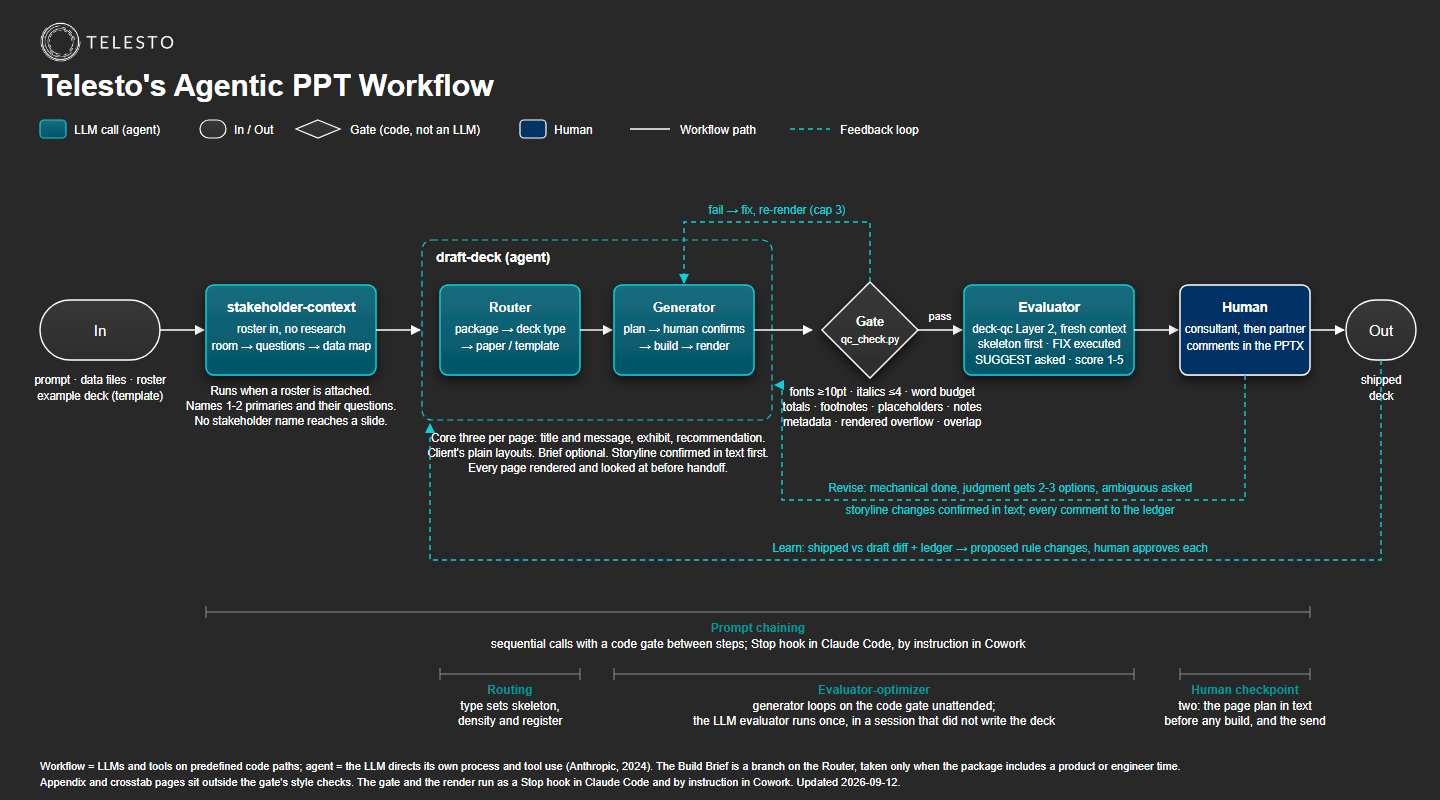
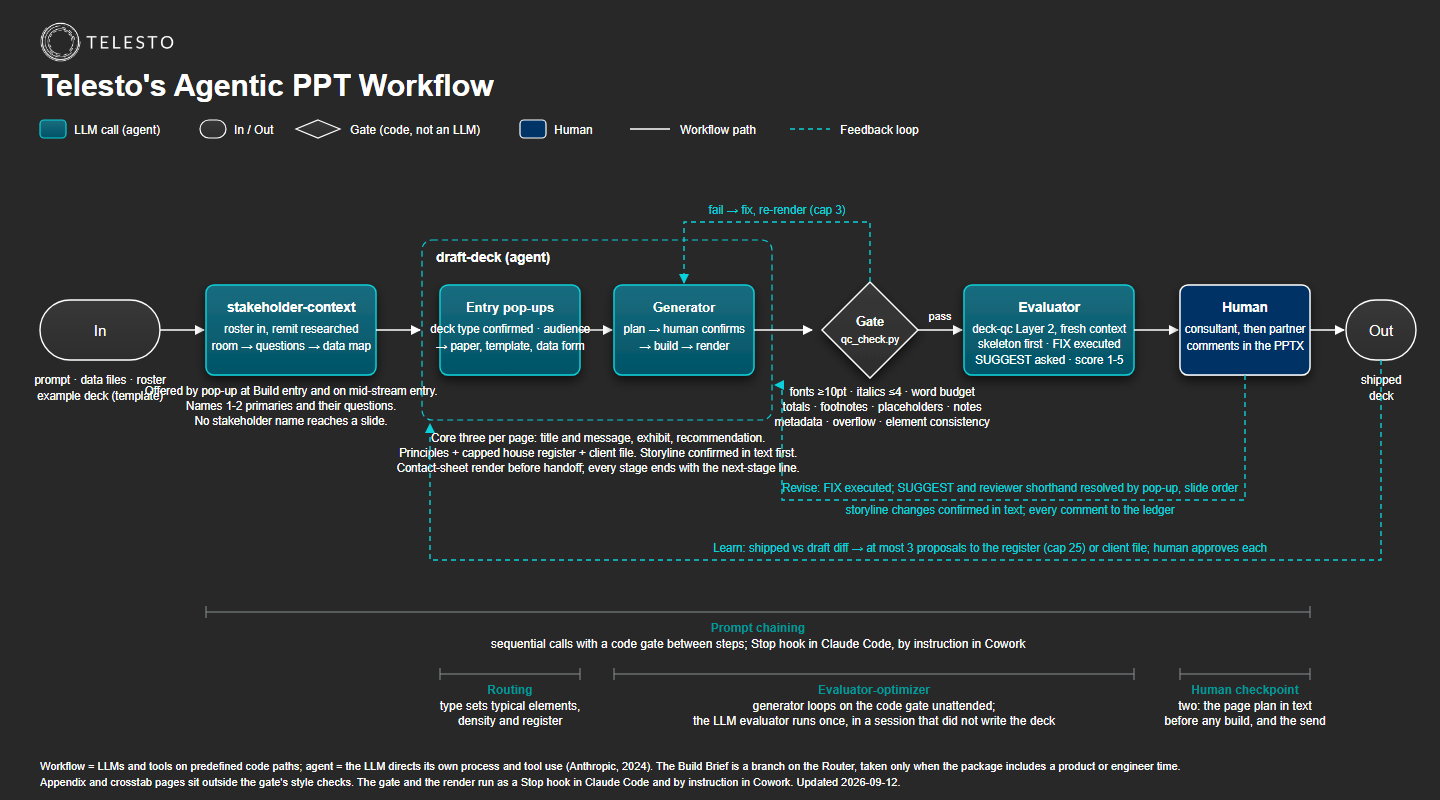
Chain chart updated: entry pop-ups, stakeholder-context offer, register and client file, contact-sheet render, next-stage lines

diff --git a/docs/telesto_deck_chain.html b/docs/telesto_deck_chain.html
@@ -54,9 +54,9 @@
   <!-- Agent 1: stakeholder-context -->
   <rect x="206" y="285" width="170" height="90" rx="8" fill="url(#agent)" stroke="#0BD0D9" stroke-width="1.4" filter="url(#sh)"/>
   <text x="291" y="312" font-size="13.5" font-weight="bold" text-anchor="middle" fill="#FFFFFF">stakeholder-context</text>
-  <text x="291" y="333" font-size="11.5" text-anchor="middle" fill="#FFFFFF">roster in, no research</text>
+  <text x="291" y="333" font-size="11.5" text-anchor="middle" fill="#FFFFFF">roster in, remit researched</text>
   <text x="291" y="350" font-size="11.5" text-anchor="middle" fill="#FFFFFF">room → questions → data map</text>
-  <text x="291" y="395" font-size="11.5" text-anchor="middle" fill="#FFFFFF">Runs when a roster is attached.</text>
+  <text x="291" y="395" font-size="11.5" text-anchor="middle" fill="#FFFFFF">Offered by pop-up at Build entry and on mid-stream entry.</text>
   <text x="291" y="410" font-size="11.5" text-anchor="middle" fill="#FFFFFF">Names 1-2 primaries and their questions.</text>
   <text x="291" y="425" font-size="11.5" text-anchor="middle" fill="#FFFFFF">No stakeholder name reaches a slide.</text>
   <line x1="376" y1="330" x2="420" y2="330" stroke="#FFFFFF" stroke-width="1.4" marker-end="url(#ar)"/>
@@ -65,14 +65,14 @@
   <rect x="422" y="240" width="350" height="180" rx="10" fill="none" stroke="#0BD0D9" stroke-width="1.2" stroke-dasharray="6,4"/>
   <text x="436" y="262" font-size="13.5" font-weight="bold" fill="#FFFFFF">draft-deck  (agent)</text>
   <text x="598" y="442" font-size="11.5" text-anchor="middle" fill="#FFFFFF">Core three per page: title and message, exhibit, recommendation.</text>
-  <text x="598" y="457" font-size="11.5" text-anchor="middle" fill="#FFFFFF">Client&#39;s plain layouts. Brief optional. Storyline confirmed in text first.</text>
-  <text x="598" y="472" font-size="11.5" text-anchor="middle" fill="#FFFFFF">Every page rendered and looked at before handoff.</text>
+  <text x="598" y="457" font-size="11.5" text-anchor="middle" fill="#FFFFFF">Principles + capped house register + client file. Storyline confirmed in text first.</text>
+  <text x="598" y="472" font-size="11.5" text-anchor="middle" fill="#FFFFFF">Contact-sheet render before handoff; every stage ends with the next-stage line.</text>
 
   <!-- Router -->
   <rect x="440" y="285" width="140" height="90" rx="8" fill="url(#agent)" stroke="#0BD0D9" stroke-width="1.4" filter="url(#sh)"/>
-  <text x="510" y="312" font-size="13" font-weight="bold" text-anchor="middle" fill="#FFFFFF">Router</text>
-  <text x="510" y="333" font-size="11.5" text-anchor="middle" fill="#FFFFFF">package → deck type</text>
-  <text x="510" y="350" font-size="11.5" text-anchor="middle" fill="#FFFFFF">→ paper / template</text>
+  <text x="510" y="312" font-size="13" font-weight="bold" text-anchor="middle" fill="#FFFFFF">Entry pop-ups</text>
+  <text x="510" y="333" font-size="11.5" text-anchor="middle" fill="#FFFFFF">deck type confirmed · audience</text>
+  <text x="510" y="350" font-size="11.5" text-anchor="middle" fill="#FFFFFF">→ paper, template, data form</text>
   <line x1="580" y1="330" x2="612" y2="330" stroke="#FFFFFF" stroke-width="1.4" marker-end="url(#ar)"/>
 
   <!-- Generator -->
@@ -88,7 +88,7 @@
   <text x="870" y="343" font-size="10.5" text-anchor="middle" fill="#FFFFFF">qc_check.py</text>
   <text x="882" y="396" font-size="11.5" text-anchor="middle" fill="#FFFFFF">fonts ≥10pt · italics ≤4 · word budget</text>
   <text x="882" y="411" font-size="11.5" text-anchor="middle" fill="#FFFFFF">totals · footnotes · placeholders · notes</text>
-  <text x="882" y="426" font-size="11.5" text-anchor="middle" fill="#FFFFFF">metadata · rendered overflow · overlap</text>
+  <text x="882" y="426" font-size="11.5" text-anchor="middle" fill="#FFFFFF">metadata · overflow · element consistency</text>
   <!-- fail loop back to Generator -->
   <path d="M870,282 L870,222 L684,222 L684,283" fill="none" stroke="#0BD0D9" stroke-width="1.4" stroke-dasharray="5,4" marker-end="url(#ard)"/>
   <text x="777" y="214" font-size="11.5" text-anchor="middle" fill="#0BD0D9">fail → fix, re-render (cap 3)</text>
@@ -118,12 +118,12 @@
 
   <!-- Revise loop: Human -> Generator -->
   <path d="M1245,375 L1245,500 L782,500 L782,385 L775,385" fill="none" stroke="#0BD0D9" stroke-width="1.4" stroke-dasharray="5,4" marker-end="url(#ard)"/>
-  <text x="1010" y="492" font-size="11.5" text-anchor="middle" fill="#0BD0D9">Revise: mechanical done, judgment gets 2-3 options, ambiguous asked</text>
+  <text x="1010" y="492" font-size="11.5" text-anchor="middle" fill="#0BD0D9">Revise: FIX executed; SUGGEST and reviewer shorthand resolved by pop-up, slide order</text>
   <text x="1010" y="514" font-size="11.5" text-anchor="middle" fill="#0BD0D9">storyline changes confirmed in text; every comment to the ledger</text>
 
   <!-- Learn loop: Out -> draft-deck instructions -->
   <path d="M1381,360 L1381,560 L430,560 L430,424" fill="none" stroke="#0BD0D9" stroke-width="1.4" stroke-dasharray="5,4" marker-end="url(#ard)"/>
-  <text x="990" y="552" font-size="11.5" text-anchor="middle" fill="#0BD0D9">Learn: shipped vs draft diff + ledger → proposed rule changes, human approves each</text>
+  <text x="990" y="552" font-size="11.5" text-anchor="middle" fill="#0BD0D9">Learn: shipped vs draft diff → at most 3 proposals to the register (cap 25) or client file; human approves each</text>
 
   <!-- Pattern brackets -->
   <g font-size="12" fill="#FFFFFF">
@@ -137,7 +137,7 @@
     <line x1="440" y1="668" x2="440" y2="680" stroke="#8A8F92" stroke-width="1"/>
     <line x1="580" y1="668" x2="580" y2="680" stroke="#8A8F92" stroke-width="1"/>
     <text x="510" y="694" text-anchor="middle" font-weight="bold" fill="#009999">Routing</text>
-    <text x="510" y="710" text-anchor="middle">type sets skeleton,</text>
+    <text x="510" y="710" text-anchor="middle">type sets typical elements,</text>
     <text x="510" y="725" text-anchor="middle">density and register</text>
 
     <line x1="614" y1="674" x2="1134" y2="674" stroke="#8A8F92" stroke-width="1"/>
